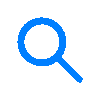
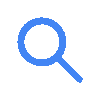
Added the rest of the header imgs and styled them + the search bar a little bit

Changed region(s): [[0.15, 0.15, 0.84, 0.84]]

diff --git a/index.html b/index.html
@@ -16,10 +16,14 @@
             <img class="logo" src="images/googlelogo_color_272x92dp.png" alt ="Google logo">
             <div class="search-bar">
                 <input class="search-text" type="search" value="build this webpage" required>
-                <img class="clear-icon" src="images/ic_clear_grey600_48dp.png" alt="Clear">
-                <img class="search-icon" src="images/noun_Magnifying Glass_25958.png" alt="Magnifying glass">
+                <img class="big-icon1" id="clear" src="images/ic_clear_grey600_48dp.png" alt="Clear icon">
+                <img class="big-icon1" id="search-icon" src="images/search-blue.png" alt="Magnifying glass icon">
             </div>
-            
+            <div class="right-header">
+                <img class="big-icon2" id="settings" src="images/noun_setting_4130339.png" alt="Settings icon">
+                <img class="big-icon2" id="apps" src="images/noun_Apps_2168184.png" alt="Apps icon">
+                <img class="big-icon2" id="user" src="images/Screenshot_2021-08-08_20-04-32.png" alt="Profile pic">
+            </div>
         </header>
     </body>
 </html>

diff --git a/styles/style.css b/styles/style.css
@@ -1,0 +1,57 @@
+.search-bar {
+    display: flex;
+    align-items: center;
+    border: 1px solid rgba(189, 189, 189, 0.507);
+    border-radius: 25px;
+    overflow: hidden;
+    width: 42rem;
+    height: 3em;
+    
+}
+
+.search-text {
+    border: 0;
+    flex: 1;
+}
+
+.search-bar:hover {
+    box-shadow: 0 0 10px rgba(189, 189, 189, 0.507);
+}
+
+input:focus {
+    outline: none;
+}
+
+.empty-space {
+    flex: 1;
+}
+
+.big-icon1 {
+    height: 25px;
+    width: 25px;
+}
+
+#clear {
+    padding: 0.15em 0.8em;
+    margin: 0.8em;
+    border-right: thin solid rgba(128, 128, 128, 0.267);
+}
+
+#search-icon {
+    padding-right: 1.1em;
+}
+
+#settings {
+    height: 35px;
+    width: 35px;
+}
+
+#apps {
+    height: 19px;
+    width: 19px;
+}
+
+#user {
+    height: 40px;
+    width: 40px;
+}
